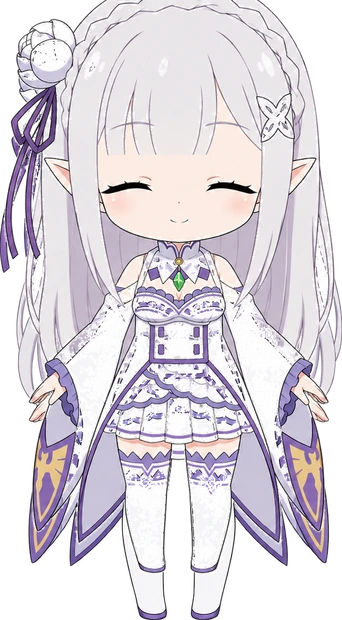
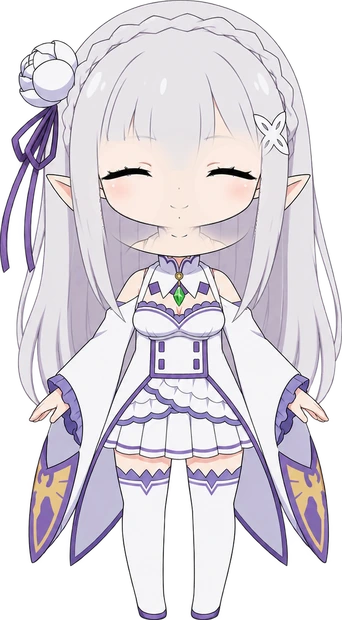
fix(pet): 重新配准闭眼图（眉毛行对齐），并只在眼部椭圆内替换
- 之前按“眼中心”配准，实际锚到了眉毛带，导致闭眼图层整体下移约 28px（身体错位）
- 改为在 ±60px 内搜索使“眉毛行分布”差异最小的位移：dy -43.3 → -71.3
- 合成范围限制为双眼椭圆（含眉毛，羽化 10px），椭圆外与底图差异仅 21px → 身体完全不动
- 校验：闭眼帧暗行起始 334，与原图 334/329 对齐
- v=20261030j / codeVer 20261030.10

Changed region(s): [[0.0, 0.0, 0.9942, 0.95], [0.6433, 0.8274, 0.6725, 0.8887]]

diff --git a/source/js/pet.js b/source/js/pet.js
@@ -33,8 +33,8 @@
   var bubbleTimer = null, lastPath = null, raf = 0;
 
   /* ---------- 伪 2.5D：整卡透视倾斜 ---------- */
-  var ASSET_V = '?v=20261030i';
-  var PET_VER = '20261030.9';   // 内容指纹：改素材必须同步改这里，否则 CDN 7 天缓存不会更新
+  var ASSET_V = '?v=20261030j';
+  var PET_VER = '20261030.10';   // 内容指纹：改素材必须同步改这里，否则 CDN 7 天缓存不会更新
   var SPRITE_HALF_1X = '/images/pet/front_half_310.webp' + ASSET_V;
   var SPRITE_HALF_2X = '/images/pet/front_half_620.webp' + ASSET_V;
   var SPRITE_HALF_3X = '/images/pet/front_half_930.webp' + ASSET_V;
